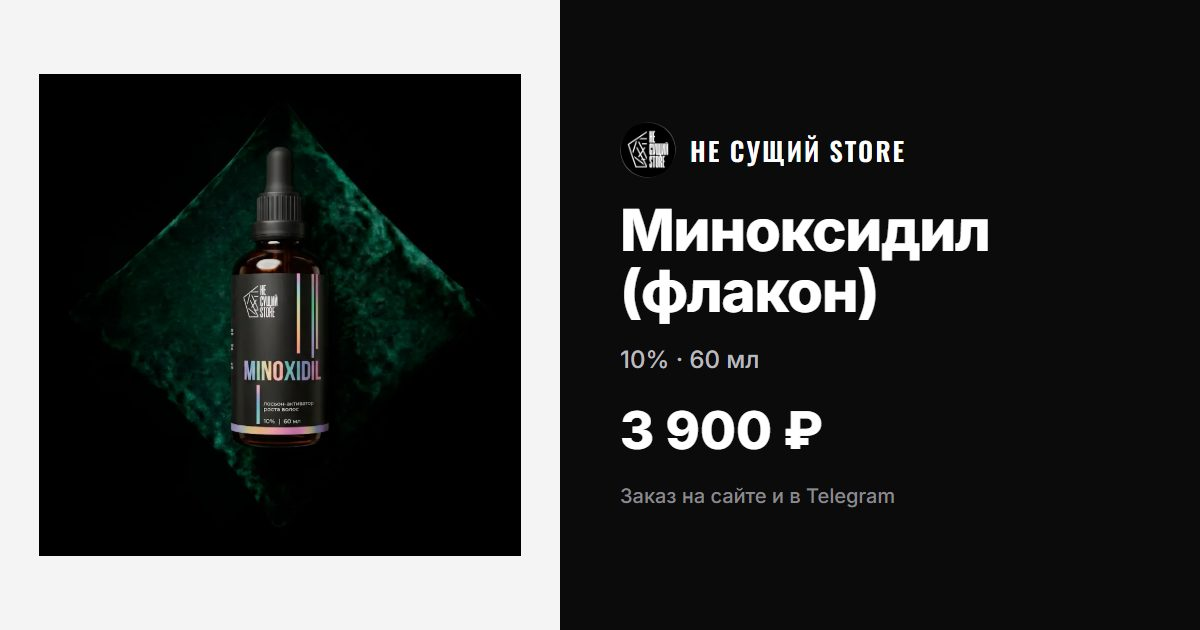
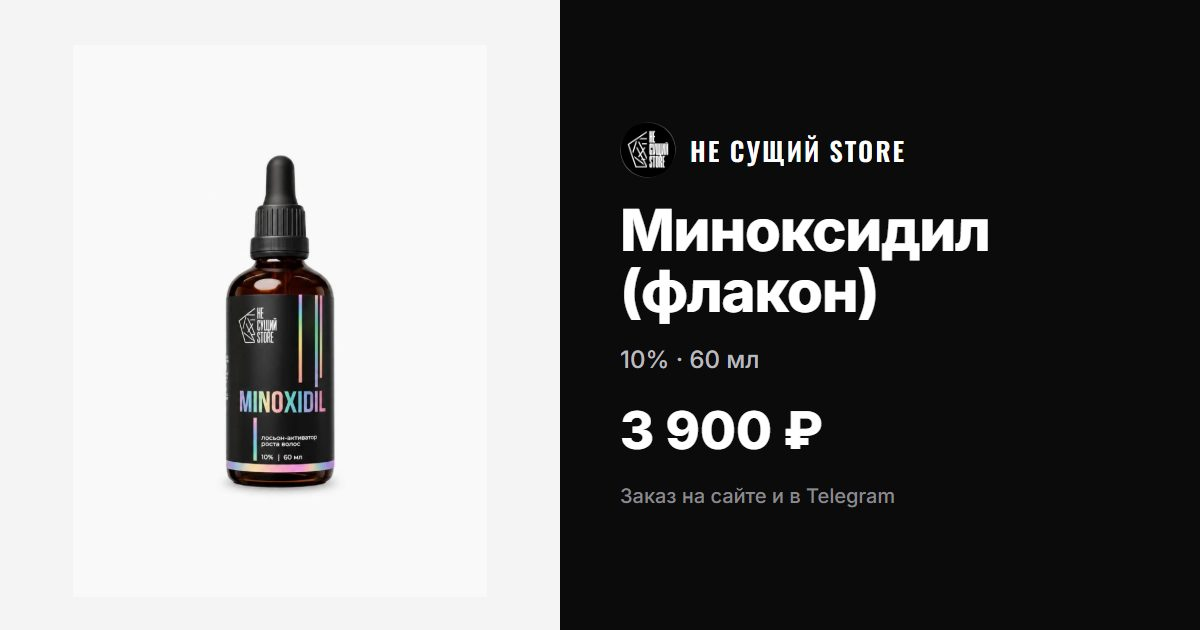
Сайт: f205e90 Новое фото миноксидила во флаконе — в общем кадре, как остальные банки

Changed region(s): [[0.0308, 0.0905, 0.4317, 0.9048]]

diff --git a/index.html b/index.html
@@ -24,12 +24,12 @@
   <!-- шрифты не блокируют первую отрисовку -->
   <link rel="preload" as="style" href="https://fonts.googleapis.com/css2?family=Inter:wght@400;500;600;700;800&family=Oswald:wght@500;600&display=swap" onload="this.onload=null;this.rel='stylesheet'">
   <noscript><link rel="stylesheet" href="https://fonts.googleapis.com/css2?family=Inter:wght@400;500;600;700;800&family=Oswald:wght@500;600&display=swap"></noscript>
-  <link rel="stylesheet" href="styles.css?v=bbabea3">
-  <link rel="stylesheet" href="mega.css?v=bbabea3">
-  <link rel="stylesheet" href="home.css?v=bbabea3">
-  <link rel="stylesheet" href="reviews.css?v=bbabea3">
-  <link rel="stylesheet" href="account.css?v=bbabea3">
-  <link rel="stylesheet" href="mobile.css?v=bbabea3">
+  <link rel="stylesheet" href="styles.css?v=f205e90">
+  <link rel="stylesheet" href="mega.css?v=f205e90">
+  <link rel="stylesheet" href="home.css?v=f205e90">
+  <link rel="stylesheet" href="reviews.css?v=f205e90">
+  <link rel="stylesheet" href="account.css?v=f205e90">
+  <link rel="stylesheet" href="mobile.css?v=f205e90">
 </head>
 <body>
   <!-- Иконки -->
@@ -409,12 +409,12 @@
 
   <div class="toast" id="toast" role="status"></div>
 
-  <script defer src="config.js?v=bbabea3"></script>
-  <script defer src="vendor/supabase.js?v=bbabea3"></script>
-  <script defer src="api.js?v=bbabea3"></script>
-  <script defer src="products.js?v=bbabea3"></script>
-  <script defer src="reviews.js?v=bbabea3"></script>
-  <script defer src="app.js?v=bbabea3"></script>
-  <script defer src="account.js?v=bbabea3"></script>
+  <script defer src="config.js?v=f205e90"></script>
+  <script defer src="vendor/supabase.js?v=f205e90"></script>
+  <script defer src="api.js?v=f205e90"></script>
+  <script defer src="products.js?v=f205e90"></script>
+  <script defer src="reviews.js?v=f205e90"></script>
+  <script defer src="app.js?v=f205e90"></script>
+  <script defer src="account.js?v=f205e90"></script>
 </body>
 </html>

diff --git a/products.js b/products.js
@@ -1202,9 +1202,9 @@ const PRODUCTS = [
     "name": "Миноксидил (флакон)",
     "pack": "10% · 60 мл",
     "price": 3900,
-    "img": "p/minoxidil-flacon.webp?v=876ecddf",
+    "img": "p/minoxidil-flacon.webp?v=8f77e31e",
     "gallery": [
-      "p/minoxidil-flacon.webp?v=876ecddf"
+      "p/minoxidil-flacon.webp?v=8f77e31e"
     ],
     "tagline": "Лосьон-активатор роста волос и бороды",
     "desc": "Миноксидил — одно из самых хорошо изученных и эффективных средств для борьбы с облысением, а также для стимуляции роста бороды (даже если изначально борода не растёт).",
